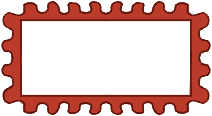
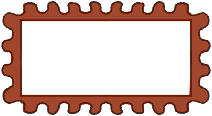
beautification bodies
- added william morris bgs for all pages but home

Changed region(s): [[0.0, 0.0, 1.0, 1.0]]

diff --git a/styles.css b/styles.css
@@ -1,24 +1,63 @@
 /*--- GLOBAL VARS ---*/
 :root { 
+  --move-up-on-hover: translate(0%, -5%); 
+
+  /*font sizes*/
   --font-size-navbar: 20px;
   --font-size-navbar-title: 16px;
-  --hover-color: #adbb97;
-  --tab-color: rgb(65, 35, 11);
-  --move-up-on-hover: translate(0%, -5%); 
-  --footer-color: #d4ddc5; 
+  
+  /*fonts*/
   --website-name-font: "Lucida Console", "Courier New", monospace;
   --article-title-font: "Consolas";
+
+  /*colors*/
   --topbar-bg-color: #FFF4B5;
   --website-bg-color: #8B8863;
+  --article-title-color: #092c0d;
+  --footer-color: #d4ddc5; 
+  --hover-color: #46611d;
+  --tab-color: rgb(65, 35, 11);
+
+  /*images*/
+  --morris-pattern: url("images\\morris_test.png");
+  --morris-pattern_about: url("images\\morris_2.jpg");
+  --morris-pattern_index: url("images\\morris_3.jpg");
 }
 
 /*for debugging divs*/
 /*border: 3px solid rgba(0, 0, 0, 0.247);*/
 
+#about_body{
+  background-image: var(--morris-pattern_about);
+  background-size: 30%;
+}
+
+#about_div{
+  background-color: var(--topbar-bg-color);
+  margin: 4em 2em 0em;
+  border-radius: 10px;
+}
+
+#index_body{
+  background-image: var(--morris-pattern_index);
+  background-size: 30%;
+}
+
+#index_div{
+  background-color: var(--topbar-bg-color);
+  margin: 4em 2em 0em;  
+  border-radius: 10px;
+}
 
 body{
   background-color: var(--website-bg-color);
 }
+
+.article_page{
+  background-image: var(--morris-pattern);
+  background-position: 90px -80px;
+}
+
 
 /*--- SEARCHBAR ---*/
 pagefind-modal-trigger {
@@ -151,7 +190,7 @@ body div:not(.footer){
   justify-content: center;
   grid-row: 1;
   padding-top: 4em;
-  color: var(--topbar-bg-color);
+  color: var(--article-title-color);
   font-size: 16px;
   font-style: italic;
 }
@@ -160,6 +199,18 @@ body div:not(.footer){
   font-size: 38px;
   font-style: normal;
   font-family: var(--article-title-font);
+}
+
+#all_about_title h2{
+  background-color: var(--topbar-bg-color);
+  border-radius: 50%;
+  width: auto;
+  height: auto;
+  padding: 20px 40px;
+  border-style: solid;
+  border-width: 5%;
+  border-color: #092c0d;
+
 }
 
 /* Style the tab */

diff --git a/about.html b/about.html
@@ -8,9 +8,9 @@
   
         <title>Cookery made easy - About</title>
     </head>
-    <body id="test">
-        <div">
-        <div class="about_div">
+
+    <body id="about_body">
+        <div id="about_div">
             <h3>Mini encyclopedia</h3>
             <p>The goal of this website is to gather detailed information about different aspects of cooking, 
                 from concepts and techniques to ingredients. <br>
@@ -25,7 +25,6 @@
             <h3>Note about information related to health</h3>
             <p>The information relayed on this website about the influence of some foods or techniques on health should not be taken as medical recommendations.<br>
             Please always consult a health professional regarding health-related decisions, a few hours of research can never replace years of studying and practicing.</p>
-        </div>    
         </div>
     </body>
         

diff --git a/all_articles.html b/all_articles.html
@@ -10,8 +10,8 @@
         <title>Cookery made easy - Articles</title>
 
     </head>
-    <body>
-    <div class="index_div">
+    <body id="index_body">
+    <div id="index_div">
         <h3>Index</h3>
         <!--INDEX TEMPLATE-->
         <template id="index_template">

diff --git a/navbar_and_basics.js b/navbar_and_basics.js
@@ -127,10 +127,12 @@ const footerEl = `
         <div class="footer">
         <footer>
         <br>
-            <img src="${nesting}/images/watermelon.gif" class="img_footer">
+            <img src="" class="img_footer">
         </footer>
         </div>
 `;
+
+//${nesting}/images/watermelon.gif
 
 // Insert your sidebar HTML inside these ``. You can use HTML as usual.
 // Remove all the content inside the `` if you don't have a sidebar.

diff --git a/articles_pages/salt.html b/articles_pages/salt.html
@@ -16,7 +16,7 @@
     </head>
 
     <body>
-    <div class="page">
+    <div class="article_page">
 
         <div id="all_about_title" data-pagefind-body>
             <h2>